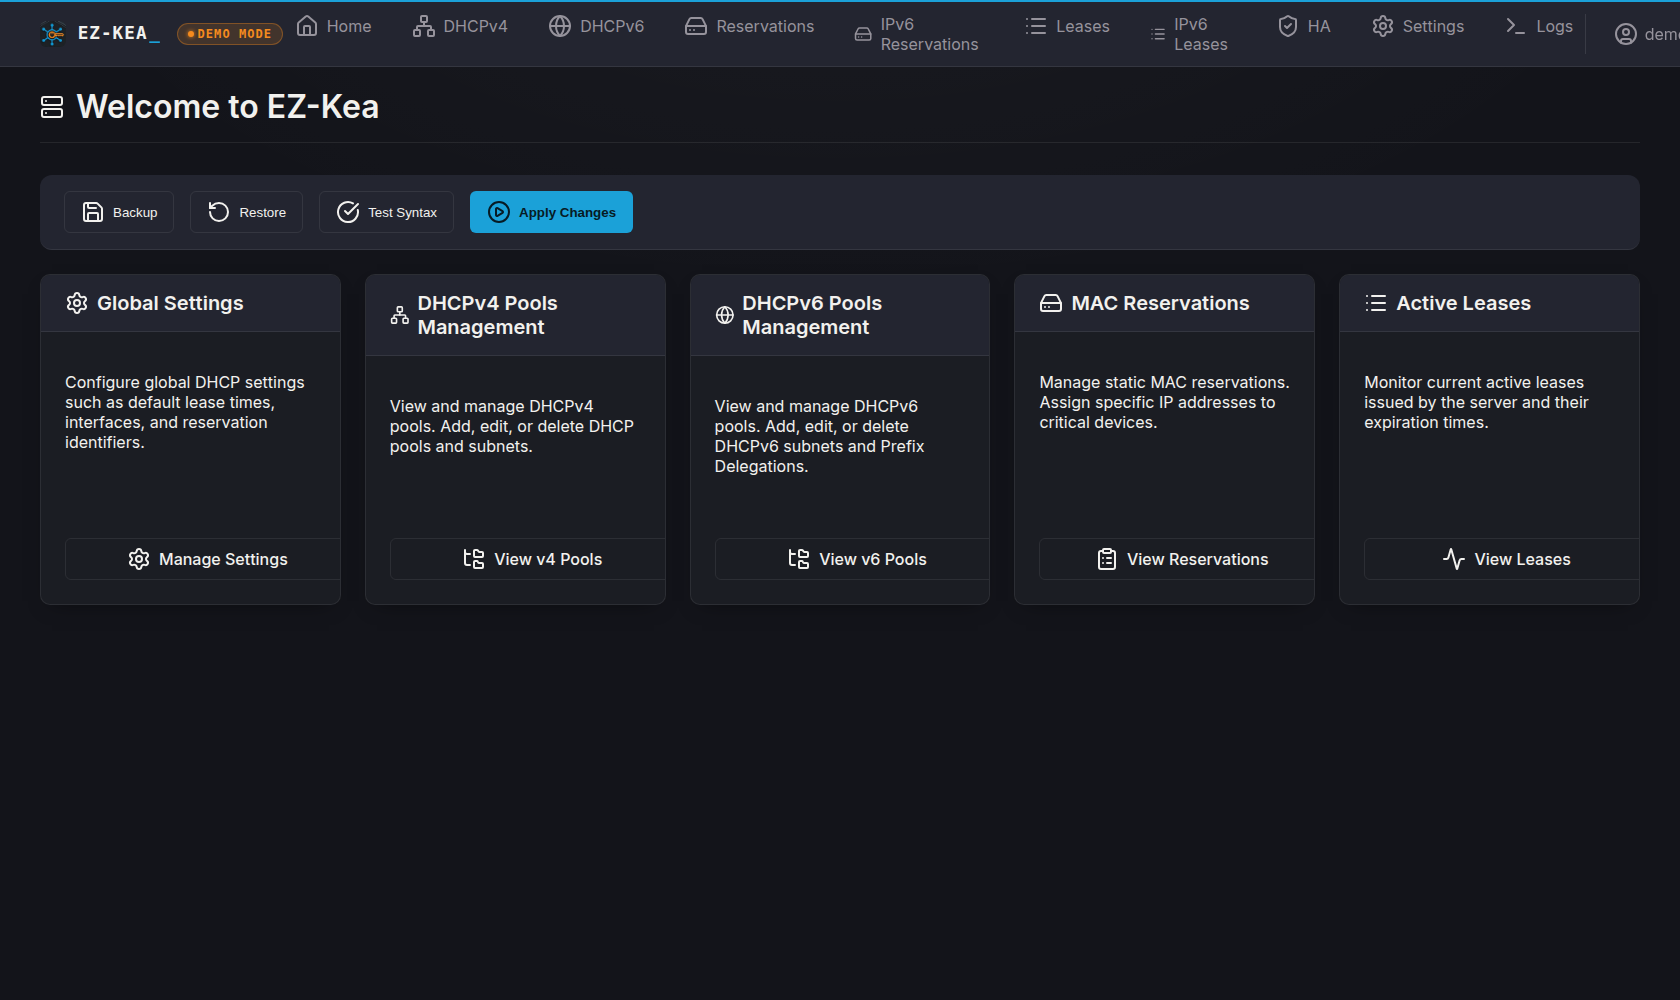
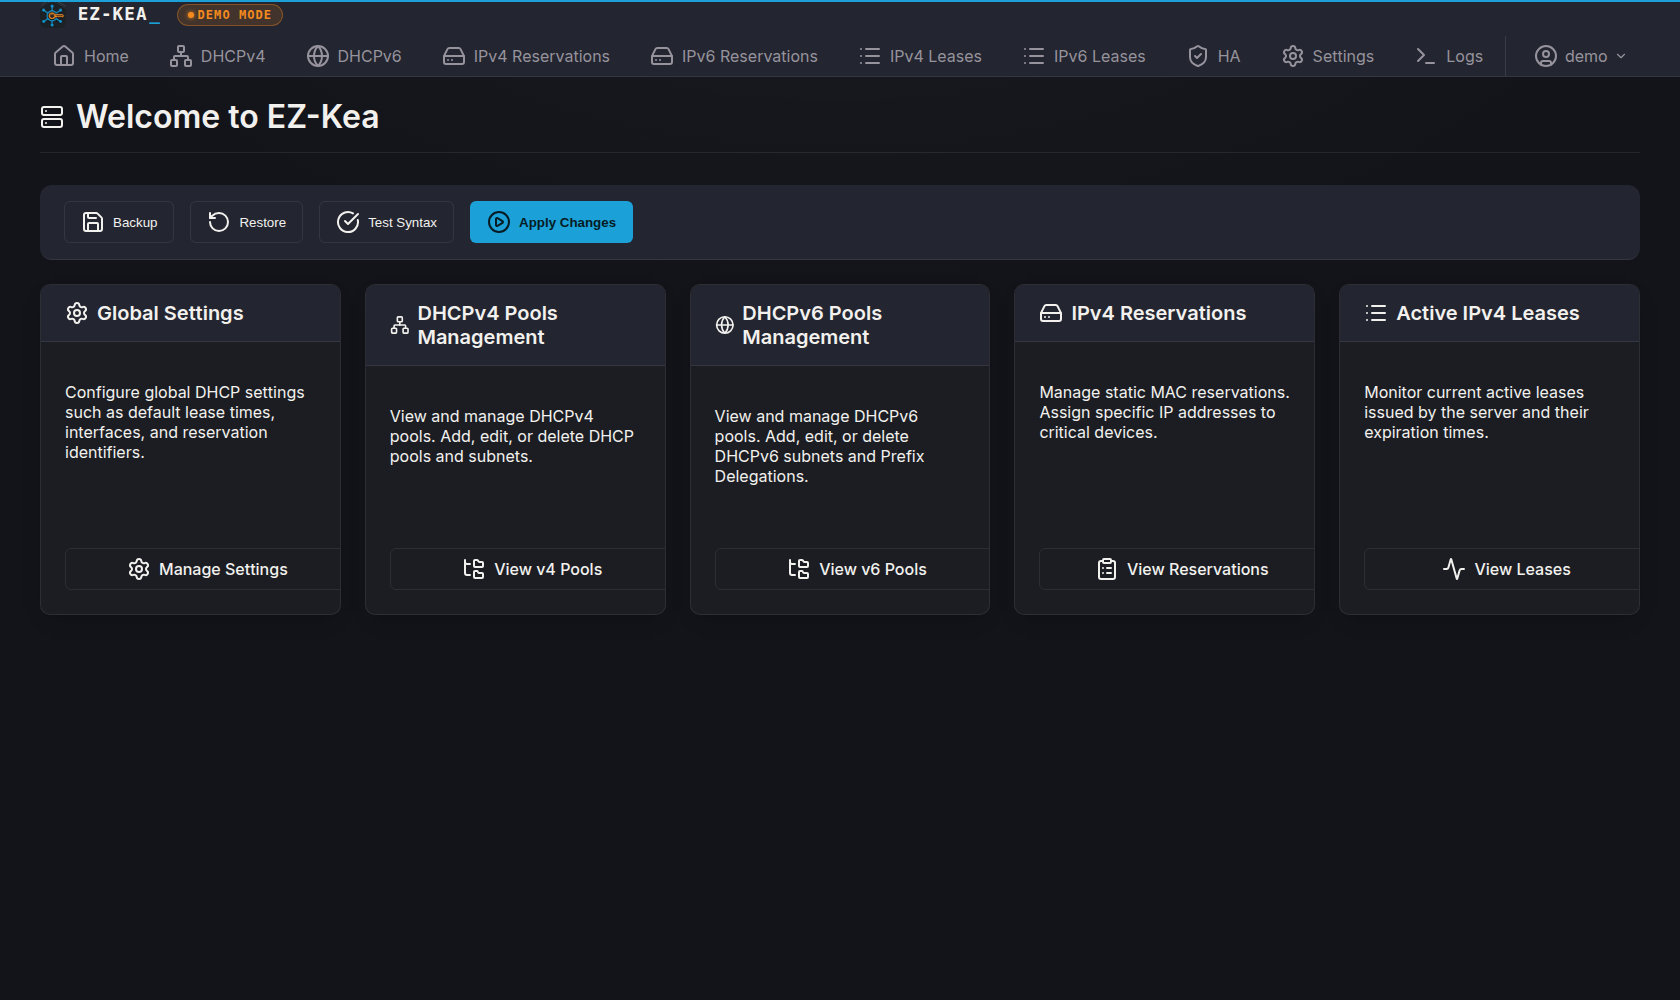
Label IPv4 views explicitly and stop the navbar clipping items
The nav read 'Reservations' and 'Leases' for IPv4 but 'IPv6 Reservations' and
'IPv6 Leases' for IPv6, and the page titles and headings disagreed further
still ('MAC Reservations', 'Active DHCP Leases'). Only the DHCPv4/DHCPv6 pools
pair was symmetric. IPv4 is now named as explicitly as IPv6 across the nav,
page titles, headings, and dashboard cards.

The MAC-versus-DUID distinction is preserved where IPv6 already put it: in the
table columns and the empty-state subtext, rather than in the page name.

Longer labels exposed a pre-existing layout bug. .navbar-container had a fixed
64px height and did not wrap outside the 900px breakpoint, so the last nav
items were cut off on common laptop widths -- Settings was already clipped at
1440px, and the added text pushed Logs off-screen entirely, making it
unreachable. The container and list now wrap at every width.

Screenshots regenerated to match.

diff --git a/templates/base.html b/templates/base.html
@@ -43,9 +43,9 @@
                 <li><a href="{{ url_for('main.system.index') }}" class="nav-link"><i data-lucide="home"></i> Home</a></li>
                 <li><a href="{{ url_for('main.dhcp4.pools') }}" class="nav-link"><i data-lucide="network"></i> DHCPv4</a></li>
                 <li><a href="{{ url_for('main.dhcp6.pools6') }}" class="nav-link"><i data-lucide="globe"></i> DHCPv6</a></li>
-                <li><a href="{{ url_for('main.dhcp4.mac_reservations') }}" class="nav-link"><i data-lucide="hard-drive"></i> Reservations</a></li>
+                <li><a href="{{ url_for('main.dhcp4.mac_reservations') }}" class="nav-link"><i data-lucide="hard-drive"></i> IPv4 Reservations</a></li>
                 <li><a href="{{ url_for('main.dhcp6.reservations6') }}" class="nav-link"><i data-lucide="hard-drive"></i> IPv6 Reservations</a></li>
-                <li><a href="{{ url_for('main.dhcp4.leases') }}" class="nav-link"><i data-lucide="list"></i> Leases</a></li>
+                <li><a href="{{ url_for('main.dhcp4.leases') }}" class="nav-link"><i data-lucide="list"></i> IPv4 Leases</a></li>
                 <li><a href="{{ url_for('main.dhcp6.leases6') }}" class="nav-link"><i data-lucide="list"></i> IPv6 Leases</a></li>
                 <li><a href="{{ url_for('main.ha.high_availability') }}" class="nav-link"><i data-lucide="shield-check"></i> HA</a></li>
                 <li><a href="{{ url_for('main.system.global_settings') }}" class="nav-link"><i data-lucide="settings"></i> Settings</a></li>

diff --git a/templates/mac_reservations.html b/templates/mac_reservations.html
@@ -1,10 +1,10 @@
 {% extends "base.html" %}
 
-{% block title %}MAC Reservations - EZ-Kea{% endblock %}
+{% block title %}IPv4 Reservations - EZ-Kea{% endblock %}
 
 {% block content %}
 <div class="page-header">
-  <h1><i data-lucide="hard-drive"></i> MAC Reservations</h1>
+  <h1><i data-lucide="hard-drive"></i> IPv4 Reservations</h1>
   <div>
     <a href="{{ url_for('main.dhcp4.new_reservation') }}" class="btn btn-primary">
       <i data-lucide="plus"></i> New Reservation
@@ -75,8 +75,8 @@
     <div style="text-align: center; padding: 4rem 2rem;">
       <i data-lucide="inbox"
         style="width: 64px; height: 64px; color: var(--text-secondary); opacity: 0.5; margin-bottom: 1rem;"></i>
-      <h2>No MAC Reservations</h2>
-      <p style="color: var(--text-secondary); margin-bottom: 2rem;">There are currently no static IP assignments
+      <h2>No IPv4 Reservations</h2>
+      <p style="color: var(--text-secondary); margin-bottom: 2rem;">There are currently no MAC-based reservations
         configured.</p>
       <a href="{{ url_for('main.dhcp4.new_reservation') }}" class="btn btn-primary" style="padding: 0.75rem 1.5rem; font-size: 1.1rem;">
         <i data-lucide="plus" style="width: 20px; height: 20px;"></i> Add Reservation

diff --git a/templates/index.html b/templates/index.html
@@ -57,7 +57,7 @@
 
   <div class="card" style="display: flex; flex-direction: column; height: 100%;">
     <div class="card-header">
-      <h2><i data-lucide="hard-drive"></i> MAC Reservations</h2>
+      <h2><i data-lucide="hard-drive"></i> IPv4 Reservations</h2>
     </div>
     <div class="card-body" style="flex-grow: 1; display: flex; flex-direction: column; justify-content: space-between;">
       <div>
@@ -72,7 +72,7 @@
 
   <div class="card" style="display: flex; flex-direction: column; height: 100%;">
     <div class="card-header">
-      <h2><i data-lucide="list"></i> Active Leases</h2>
+      <h2><i data-lucide="list"></i> Active IPv4 Leases</h2>
     </div>
     <div class="card-body" style="flex-grow: 1; display: flex; flex-direction: column; justify-content: space-between;">
       <div>

diff --git a/static/css/styles.css b/static/css/styles.css
@@ -361,13 +361,19 @@ tbody tr:hover {
   z-index: 50;
 }
 
+/* Wraps at every width rather than only on small screens. There are ten
+   top-level nav items and the IPv4/IPv6 labels are long, so a fixed-height
+   single row silently clipped the last items (Settings, Logs) on common
+   laptop widths — making them unreachable rather than merely cramped. */
 .navbar-container {
   max-width: 1600px;
   margin: 0 auto;
   display: flex;
+  flex-wrap: wrap;
   justify-content: space-between;
   align-items: center;
-  height: 64px;
+  min-height: 64px;
+  row-gap: 0.5rem;
 }
 
 .navbar-brand {
@@ -406,6 +412,7 @@ tbody tr:hover {
 
 .navbar-nav {
   display: flex;
+  flex-wrap: wrap;
   gap: 1rem;
   list-style: none;
   margin: 0;

diff --git a/templates/leases.html b/templates/leases.html
@@ -1,10 +1,10 @@
 {% extends "base.html" %}
 
-{% block title %}DHCP Leases - EZ-Kea{% endblock %}
+{% block title %}IPv4 Leases - EZ-Kea{% endblock %}
 
 {% block content %}
 <div class="page-header">
-    <h1><i data-lucide="list"></i> Active DHCP Leases</h1>
+    <h1><i data-lucide="list"></i> Active IPv4 Leases</h1>
 </div>
 
 <div class="card">
